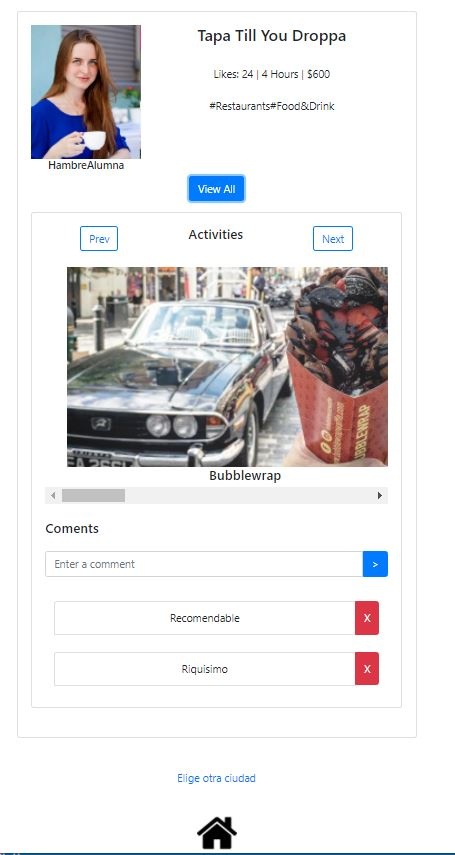
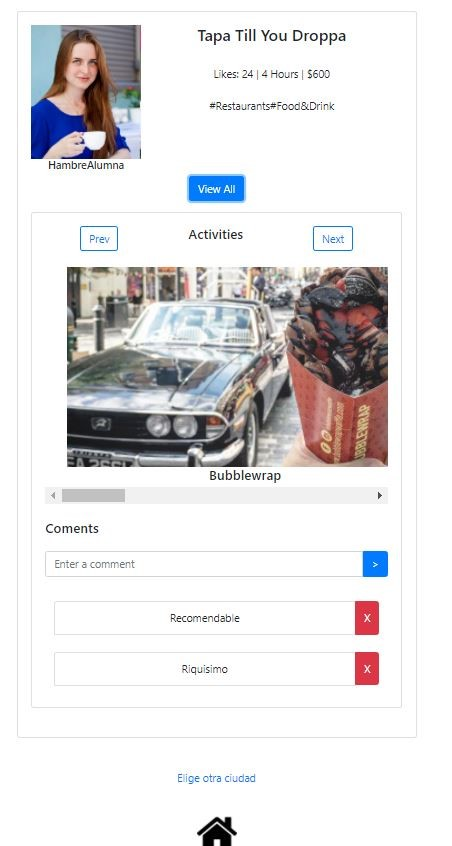
Update itineraries hash

diff --git a/cliente/src/components/itineraries/ItineraryList.jsx b/cliente/src/components/itineraries/ItineraryList.jsx
@@ -24,11 +24,7 @@ const ItineraryList = (props) => {
                                 <br />
                             Likes: {itinerary.rating}  |  {itinerary.duration} Hours  |  ${itinerary.cost}
                                 <br /><br />
-
-                                <Hash hashtag={itinerary.hashtag[0]} />
-                                <Hash hashtag={itinerary.hashtag[1]} />
-                                <Hash hashtag={itinerary.hashtag[2]} />
-
+                                <Hash hashtag={itinerary.hashtag} />
                                 <br />
                                 <br />
                             </Media>

diff --git a/cliente/src/components/itineraries/hash.jsx b/cliente/src/components/itineraries/hash.jsx
@@ -1,15 +1,15 @@
 import React from 'react';
 
 const Hash = (props) => {
-
     return (
-        <div>
-            <span className="badge badge-pill badge-info"> {
-                props.hashtag
-            } </span>
-        </div>
+        props.hashtag.map((has, i) =>
+            <div key={i}>
+                <span className="badge badge-pill badge-info"> {
+                    has
+                } </span>
+            </div>
+        )
     )
-
 }
 
 export default Hash;
